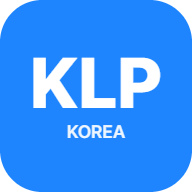
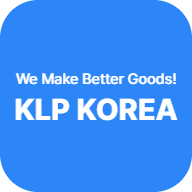
PWA 앱 아이콘을 KLP KOREA 로고 디자인으로 교체
- 사용자 제공 로고("We Make Better Goods! / KLP KOREA", 블루 #2D86F7) 반영
- 192/512/512-maskable 재생성, maskable은 안전영역 내 배치
- 캐시 갱신 위해 아이콘 참조 ?v=2, theme-color 로고색에 맞춤

diff --git a/index.html b/index.html
@@ -6,9 +6,9 @@
     <title>KLP KOREA - 업무 대시보드</title>
     <!-- PWA (앱 설치) -->
     <link rel="manifest" href="/manifest.webmanifest">
-    <meta name="theme-color" content="#1F85FF">
-    <link rel="apple-touch-icon" href="/icon-192.png">
-    <link rel="icon" type="image/png" href="/icon-192.png">
+    <meta name="theme-color" content="#2D86F7">
+    <link rel="apple-touch-icon" href="/icon-192.png?v=2">
+    <link rel="icon" type="image/png" href="/icon-192.png?v=2">
     <meta name="mobile-web-app-capable" content="yes">
     <meta name="apple-mobile-web-app-capable" content="yes">
     <meta name="apple-mobile-web-app-status-bar-style" content="default">
